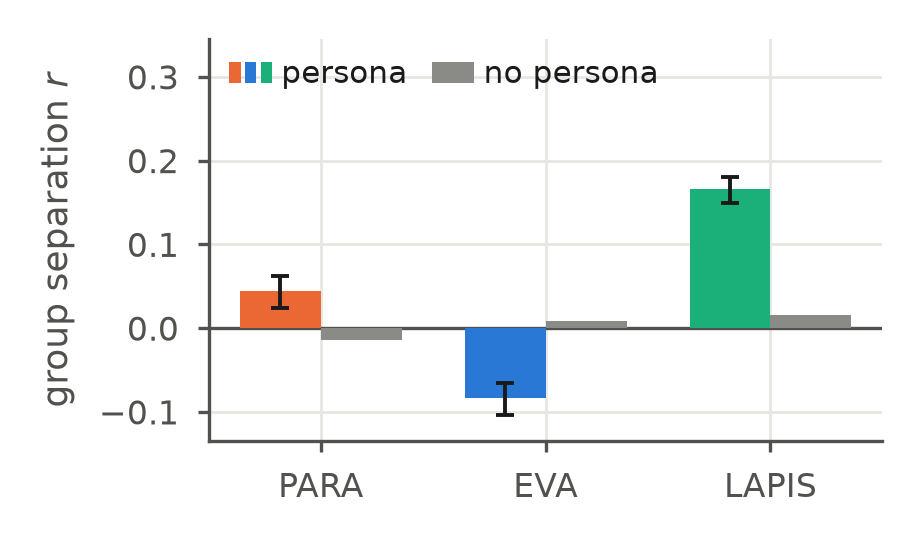
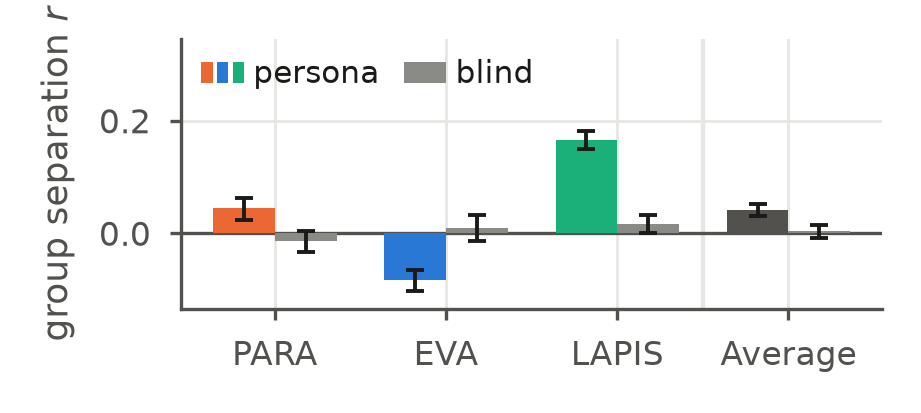
Section 5.3 done
- Old 5.3 (group splits) and 5.4 (generated images) merged into one section,
  "The synthetic audience simulates population reactions": a setup paragraph,
  then distribution-level results (Figure 4, Table 2) and task-level results
  (Figure 5). Fixed two overstatements: EVA age survives correction with a
  negative sign, and a single vote scores 58.8% against the crowd majority.
- Figure 4: Average group with a pooled bootstrap CI (c1_separation.py
  _average), CIs on the blind bars, 27% shorter; Table 2 tightened.
- Figure 5: calibration-transfer panel moved to Appendix A3 (new
  pf_calib_transfer.png); now two panels, ~10% shorter, with a legend and the
  correlation's 95% CI.
- Captions for Table 2, Figures 4 and 5 rewritten in the shared plain style.
- VLM added to keywords.

Changed region(s): [[0.0304, 0.0581, 0.9729, 0.9298], [0.0304, 0.0291, 0.0912, 0.0581]]

diff --git a/docs/paper/accv-wrkshop/autopolish.tex b/docs/paper/accv-wrkshop/autopolish.tex
@@ -122,7 +122,7 @@ Sajjad Pakdamansavoji\inst{1}$^{\star}$\thanks{Corresponding author.}}
 \begin{abstract}
 Editing an image with today's text-guided tools is a back-and-forth in which a person decides what should change and an AI system makes the change. Because a person must take part in every round, the process does not scale, and the result follows that one person's taste, which may not suit the people the image is meant for. We propose \textbf{AutoPolish}, which replaces that single opinion with a synthetic audience, many copies of a vision-language model that each react as a different viewer described by a short profile. Their combined feedback stands in for how the intended audience would respond, and an auto-research style loop turns it into edits over a fixed number of rounds, keeping each edit only when an independent scorer rates it higher. Across three datasets of photographs and paintings, we show that only 19 to 47\% of one person's rating is shared with other viewers, while the averages of two separate groups agree at a correlation of up to $0.96$, so one viewer is a poor guide to a crowd. We also show that our audience captures how viewer groups differ $10\times$ better than the same model without profiles, and picks the crowd's favorite of two AI-generated images 6 percentage points more often than a simple baseline. In editing, AutoPolish improves images as much as a single generic critic while keeping them recognizable, and proposes $3\times$ as many distinct changes.
 
-\keywords{Image editing \and Auto-Research \and Persona Simulation}
+\keywords{Image editing \and Auto-Research \and Persona Simulation \and VLM}
 \end{abstract}
 
 
@@ -248,7 +248,7 @@ Our contributions are as follows.
 \subsubsection{The frozen LLM judge.} The judge is a pretrained vision-language model that we query but never fine-tune. Each query supplies an image, a persona card, and an instruction to answer in a fixed JSON format; the model returns a score, a short rationale, and a few auxiliary fields. We parse it as strict JSON. If parsing fails, a per-field regular expression recovers the values, so we keep the sample instead of dropping it.  The backbone is \texttt{Qwen2-VL-7B-Instruct} \cite{wang2024qwen2vl}, in bf16. The “persona-blind” control format behaves as if no prompt conditioning were involved for the VLM judgment.
 \subsubsection{From a panel to a group prediction.} To predict how a viewer group responds to an image, we sample $N$ persona cards from the dataset and use them to judge the image, and summarize the reactions: the mean and spread of the scores, the most frequent complaints extracted from the rationales, and compare them with the ground truth scoring.
 
-Averaging over the panel is not enough on its own, because the judge's error is systematic and not random. Its ratings are pulled toward the middle of the scale: their standard deviation is only 51-58\% of the human standard deviation, 34-56\% of them land on a single value, and the endpoints are almost never used. Averaging cancels the random part of the error, but the compression is shared across the group population, so it survives. This is why raw population averages are less accurate than simply predicting the population mean. We therefore correct the scores after inference, using isotonic regression \cite{niculescu2005}. This fits a monotone mapping from the judge's raw score to a calibrated one. We fit the mapping with two-fold cross-fitting over images, so every rating is calibrated by a mapping that was estimated without it. Because the mapping is monotone, it changes the absolute error but leaves every ranking as it was, and because it acts only on the output, the model weights stay frozen. The mapping also transfers across datasets. We can therefore fit it once on real images, where human ratings are available, and apply it unchanged to generated images, for which no per-image ratings exist.
+Averaging over the panel is not enough on its own, because the judge's error is systematic and not random. Its ratings are pulled toward the middle of the scale: their standard deviation is only 51-58\% of the human standard deviation, 34-56\% of them land on a single value, and the endpoints are almost never used. Averaging cancels the random part of the error, but the compression is shared across the group population, so it survives. This is why raw population averages are less accurate than simply predicting the population mean. We therefore correct the scores after inference, using isotonic regression \cite{niculescu2005}. This fits a monotone mapping from the judge's raw score to a calibrated one. We fit the mapping with two-fold cross-fitting over images, so every rating is calibrated by a mapping that was estimated without it. Because the mapping is monotone, it changes the absolute error but leaves every ranking as it was, and because it acts only on the output, the model weights stay frozen. The mapping also transfers across datasets (Appendix~\appref{sup:calib}{A3}). We can therefore fit it once on real images, where human ratings are available, and apply it unchanged to generated images, for which no per-image ratings exist.
 
 \subsubsection{AutoPolish.} AutoPolish uses the group as the critic in an iterative editing loop, under the constraint that the model proposing edits and the model judging them are different, since a loop that scores its own edits can improve its objective without improving the image. Each image is refined for $R=10$ steps of (i) \textbf{critique}: the group views the current image, and its complaints are aggregated across personas and accumulated across steps into a single instruction of at most fifteen words; (ii) \textbf{anchored re-edit}: FLUX.1-Kontext-dev \cite{flux2024} applies that instruction to the \emph{original} image rather than the previous edit, so editing artifacts do not compound, producing $K=3$ candidates; (iii) \textbf{held-out scoring}: each candidate is scored by a LAION aesthetic predictor \cite{schuhmann2022}, a CLIP \cite{radford2021} backbone with an MLP head and thus a different model family from the critic, and checked for identity drift with DINOv2 \cite{oquab2023}; (iv) \textbf{accept-if-better}: the new image replaces the previous best image if the aesthetic score improves and DINOv2 similarity to the original stays above $0.78$, so the best-so-far score increases monotonically. We compare four critics: \textsc{static}, a fixed ``improve this image'' instruction; \textsc{blind}, a single persona-free critique; \textsc{society}, ten aggregated personas, which is our method; and \textsc{reward-only}, which optimizes the aesthetic predictor directly and is an upper reference rather than a comparable baseline. Every condition appends the same suffix asking for a visible edit, so prompt wording cannot explain a difference between \textsc{society} and \textsc{blind}, and we deliberately do not score instruction adherence, which would favour whichever condition writes the instruction that is easiest to follow.
 
@@ -272,13 +272,13 @@ We measure how reliable a single rating is compared with the average rating of a
   \caption{Reliability of a single rating and of a group average, the share of each rater's personal taste that their profile explains, and the average number of raters per image across three datasets. A group average is far more reliable than one rating, and the profile explains little of personal taste.}
   \label{tab:ceiling}
   \centering
-  \small
+  \fontsize{7.5}{9}\selectfont  % llncs aliases \footnotesize to \small
   \setlength{\aboverulesep}{0pt}\setlength{\belowrulesep}{0pt}
-  \renewcommand{\arraystretch}{1.05}
+  \renewcommand{\arraystretch}{1.0}
   \newcolumntype{C}[1]{>{\hsize=#1\hsize\centering\arraybackslash}X}
   \begin{tabularx}{\linewidth}{l|C{0.92}C{0.92}|C{0.96}|C{1.2}}
     \toprule
-    \multirow{2}{*}{Dataset} & \multicolumn{2}{c|}{Reliability\rule{0pt}{2.4ex}\rule[-0.7ex]{0pt}{0pt}} & \multirow{2}{=}[-0.5ex]{\centering Taste explained\newline by profile} & \multirow{2}{=}{\centering \# Raters/image} \\
+    \multirow{2}{*}{Dataset} & \multicolumn{2}{c|}{Reliability $\uparrow$\rule{0pt}{2.4ex}\rule[-0.7ex]{0pt}{0pt}} & \multirow{2}{=}[-0.5ex]{\centering Taste explained\newline by profile} & \multirow{2}{=}{\centering \# Raters/image} \\
     \cline{2-3}
     \rule[-0.8ex]{0pt}{0pt} & single rating\rule{0pt}{2.3ex} & group average & & \\
     \midrule
@@ -293,11 +293,6 @@ We measure how reliable a single rating is compared with the average rating of a
 
 Table~\ref{tab:ceiling} shows a large gap between the two reliabilities. Averaged over the three datasets, a single rating reaches a reliability of only 0.29, so most of what one person says about an image is their own, while the average of a group reaches 0.90, which means a second group of viewers would give nearly the same average. The gap also varies with the kind of image, since a single rating is most reliable on the PARA photographs at 0.47, drops to 0.22 on the EVA photographs, and is lowest on the LAPIS paintings at 0.19, where a group average still holds at 0.84. Paintings therefore draw the most personal reactions, although the difference between the two photograph datasets suggests that the type of image is not the only factor. The profile attributes explain only 2.3\% of personal taste on average and at most 4\%, and learning each rater's taste from their own past ratings lowers prediction error only modestly. Together, these results suggest that the group is a more realistic target than the individual, so we evaluate the synthetic audience on groups in the rest of the paper.
 
-\subsection{Personas change how the VLM reacts to an image}
-\label{sec:persona}
-
-We compare the reactions of a persona-conditioned VLM with those of the blind variant, asking how the two differ and which is closer to how real viewers react. First, we compare the audience's calibrated average for each image with the real average and with a prior that always predicts the overall average rating. Second, to check whether the persona moves the scores in the right direction, we subtract each image's average from every rating, which leaves only how each rater departs from the crowd, then average these departures over each group of viewers, such as people with more or less art experience, and correlate the VLM's group departures with the real ones. Third, we train a logistic regression on TF-IDF features to guess a rater's attribute from their comment alone, using art experience on PARA, photographic skill on EVA and interest in art on LAPIS, and we count how many distinct comments the VLM writes for the same image. Training details and detailed results are provided in Appendix~\appref{sup:probe}{A5}.
-
 \begin{figure}[t]
   \centering
   \includegraphics[width=\linewidth]{figs/pf_persona.png}
@@ -310,39 +305,46 @@ We compare the reactions of a persona-conditioned VLM with those of the blind va
   \label{fig:steer}
 \end{figure}
 
+\subsection{Personas change how the VLM reacts to an image}
+\label{sec:persona}
+
+We compare the reactions of a persona-conditioned VLM with those of the blind variant, asking how the two differ and which is closer to how real viewers react. First, we compare the audience's calibrated average for each image with the real average and with a prior that always predicts the overall average rating. Second, to check whether the persona moves the scores in the right direction, we subtract each image's average from every rating, which leaves only how each rater departs from the crowd, then average these departures over each group of viewers, such as people with more or less art experience, and correlate the VLM's group departures with the real ones. Third, we train a logistic regression on TF-IDF features to guess a rater's attribute from their comment alone, using art experience on PARA, photographic skill on EVA and interest in art on LAPIS, and we count how many distinct comments the VLM writes for the same image. Training details and detailed results are provided in Appendix~\appref{sup:probe}{A5}.
+
 Figure~\ref{fig:persona} (left) shows that the raw scores of the synthetic audience are not directly usable. The VLM rates almost every image near the middle of the scale, so on every dataset the audience's average lands further from the real average than the prior does. A single calibration fixes this, cutting the audience's error roughly in half, from 0.14 to 0.07 on average against 0.10 for the prior, and it beats the prior on each dataset separately.
 
 Figure~\ref{fig:steer} shows that the persona moves the VLM's scores in the same direction that real viewers differ. On PARA and LAPIS, which describe their raters in detail, the VLM's group departures follow the real ones with a correlation of 0.37 and 0.39. On EVA they do not, with a negative correlation of $-0.24$, which we attribute to EVA recording little about its raters and using a coarse whole-number scale that leaves little room for small shifts in taste.
 
 The impact of the persona is clearer in the written comments than in the scores. A classifier trained on the comments alone tells viewer groups apart well above chance on all three datasets, scoring 0.58 to 0.70, while on the blind variant it stays at chance (Figure~\ref{fig:persona}, middle). The persona also makes the comments far more varied. On average, the VLM writes about 37 different comments for every 100 raters of an image, against 10 for the blind variant, which is nearly four times as many (Figure~\ref{fig:persona}, right). Together, these results suggest that the persona does change how the VLM reacts to an image, a little in the scores it gives and much more in what it writes.
 
-\subsection{The synthetic audience reproduces inter-group opinion splits}
+\subsection{The synthetic audience simulates population reactions}
 \label{sec:audience}
+\label{sec:generated}
 
-Our main result is that the audience recovers not just the average opinion but the way opinion splits. On paintings, the gaps we predict between two groups of viewers looking at the same image line up with the gaps in the real ratings ($+0.166$, 95\% CI $[0.150, 0.181]$), while the same judge without personas sits at essentially zero ($+0.016$; Figure~\ref{fig:audience}). It holds for each way of dividing the viewers on its own: by nationality ($+0.068$), by interest in art ($+0.088$), and by age ($+0.102$). On the photograph datasets the effect is weak but real on PARA ($+0.044$) and absent on EVA ($-0.084$). That ordering, LAPIS $>$ PARA $>$ EVA, is exactly the order of how much each dataset tells us about its raters. Because that is eight slice tests over three datasets, we correct for multiple comparisons rather than reporting the best of them: six of the eight survive Holm correction at $\alpha=0.05$, including every LAPIS slice and both PARA experience slices (Table~\ref{tab:holm}). The two that fail --- PARA age and EVA photo.\ level --- are reported as null, not dropped.
+We test whether a panel of persona-conditioned VLMs, the synthetic audience, can stand in for the reaction of a target population, at two levels. At the level of distributions, we ask whether panels built for different groups of viewers reproduce the real differences between those groups. Using the between-group separation of the evaluation protocol, we split the raters of each image by one attribute, namely art experience, photography experience and age on PARA, photographic skill and age on EVA, and nationality, interest in art and age on LAPIS, keep groups with at least four raters, and compare the predicted gaps between groups with the real ones, which gives eight tests across the three datasets. At the level of a task, we ask whether the panel picks the same image as the crowd. On the AI-generated pairs of Rapidata, the VLM casts one vote for every human vote, conditioned on that voter's country and language. For each pair we draw a panel of one to twenty of these votes, take its majority choice and compare it with the crowd's majority, averaging over 200 random draws, against a baseline that always picks the image from the model the crowd prefers overall.
 
 \begin{figure}[t]
   \centering
   \begin{minipage}[t]{0.52\linewidth}
     \vspace{0pt}
     \centering
-    \captionof{table}{Holm-corrected slice tests ($n=8$, $\alpha=0.05$). Six of eight between-group separations survive correction, including the nationality slice that the cross-cultural analysis builds on.}
+    \captionof{table}{Separation between viewer groups for each attribute, with $p$-values corrected for running eight tests (Holm, $\alpha=0.05$). The audience gets the direction right in five of the eight cases and backwards for age on EVA.}
     \label{tab:holm}
-    \vspace{2pt}
+    \vspace{0pt}
     \scriptsize
     \setlength{\tabcolsep}{2.2pt}
+    \renewcommand{\arraystretch}{0.82}
     \begin{tabular}{llccc}
       \toprule
-      Dataset & slice & sep.\ $r$ & Holm $p$ & surv. \\
+      Dataset & slice & sep.\ $r\,\uparrow$ & Holm $p\,\downarrow$ & surv. \\
       \midrule
       LAPIS & age                   & $+0.102$ & $<10^{-3}$ & \checkmark \\
       LAPIS & art interest          & $+0.088$ & $<10^{-3}$ & \checkmark \\
-      EVA   & age                   & $-0.079$ & $<10^{-3}$ & \checkmark \\
       LAPIS & nationality           & $+0.068$ & $8\times10^{-5}$ & \checkmark \\
       PARA  & photo.\ exp.\     & $+0.055$ & $1.1\times10^{-4}$ & \checkmark \\
       PARA  & art exp.\             & $+0.040$ & $4.2\times10^{-3}$ & \checkmark \\
-      EVA   & photo.\ level    & $-0.018$ & $0.50$ & $\times$ \\
       PARA  & age                   & $+0.008$ & $0.50$ & $\times$ \\
+      EVA   & photo.\ level    & $-0.018$ & $0.50$ & $\times$ \\
+      EVA   & age                   & $-0.079$ & $<10^{-3}$ & \checkmark \\
       \bottomrule
     \end{tabular}
   \end{minipage}\hfill
@@ -350,22 +352,21 @@ Our main result is that the audience recovers not just the average opinion but t
     \vspace{0pt}
     \centering
     \includegraphics[width=\linewidth]{figs/pf_separation.png}
-    \caption{\textbf{The audience recovers real differences between viewer groups.} Predicted between-group gaps track the real ones (bootstrap 95\% CIs); without personas the same judge sits at zero.}
+    \caption{Separation between viewer groups on each dataset and on average, with 95\% bootstrap intervals. The persona gets the direction right on LAPIS and PARA but not on EVA, while the blind variant stays near zero.}
     \label{fig:audience}
   \end{minipage}
 \end{figure}
 
-\subsection{Aggregating weak persona votes recovers crowd preference on generated images}
-\label{sec:generated}
-
-We repeat the test on 23{,}445 crowd votes over 898 pairs of generated images, asking the judge to answer as a voter from a given country and pick the better image of the two. A single simulated voter is close to a coin flip (0.532 correct). An audience of twenty agrees with the crowd 65.7\% of the time, above the 60.0\% reached by always choosing the more popular image, and agreement climbs steadily as the audience grows (Figure~\ref{fig:generated}, left). This is the clearest view of why collective reaction works: each vote leans the right way only slightly, and averaging enough of them turns a slight lean into a reliable answer. Per pair, the aggregated audience's predicted preference correlates with the human crowd's observed win-rate at $r{=}+0.466$ (95\% CI $[0.415, 0.515]$; Figure~\ref{fig:generated}, middle), so this is a graded preference signal rather than a coin-flip that happens to land right. The step that licenses running a calibrator fit on real photographs over generated images is verified separately: every off-diagonal transfer of the isotonic map sits far below the raw error (Figure~\ref{fig:generated}, right), so the correction is a general scale fix and not a dataset-specific one.
+Figure~\ref{fig:audience} shows how well the predicted differences between groups follow the real ones, where a positive value means the audience gets the direction of the differences right. On LAPIS it does so clearly, with a correlation of 0.166 against 0.016 for the blind variant. On PARA the effect is weaker but still present (0.044), while on EVA the predictions point the opposite way ($-0.084$). Averaged over the three datasets, the audience reaches 0.042 against 0.003 for the blind variant. Table~\ref{tab:holm} breaks these results down by the attribute used to form the groups. In five of the eight cases the audience gets the direction right. On EVA, grouping viewers by age gives the opposite direction, which explains the negative result for EVA in Figure~\ref{fig:audience}, and the remaining two cases show no clear effect either way. The order LAPIS, PARA, EVA follows how much each dataset records about its raters, which suggests that the audience reproduces the differences within a population as far as its profiles describe them.
 
 \begin{figure}[t]
   \centering
   \includegraphics[width=\linewidth]{figs/pf_generated.png}
-  \caption{\textbf{The audience transfers to AI-generated images.} \textbf{(left)} Agreement with the human crowd rises monotonically with the number of simulated voters and overtakes the majority prior; a single voter is close to a coin flip. \textbf{(middle)} Per pair, the aggregated panel's predicted preference tracks the crowd's observed win-rate over 898 pairs ($r{=}{+}0.466$, 95\% CI $[0.415, 0.515]$), so this is a graded signal rather than a coin flip that lands right; points are colored by how many humans voted on the pair. \textbf{(right)} The isotonic calibrator transfers across datasets: every off-diagonal cell (fit on one dataset, evaluated on another) sits far below the raw uncalibrated error at the right, so the correction is a general scale fix and not a dataset-specific one.}
+  \caption{The synthetic audience on AI-generated image pairs. \textbf{(left)} Agreement with the crowd's majority as the panel grows, against the prior of always picking the more popular model. \textbf{(right)} Panel against crowd preference per pair, colored by number of voters. Agreement passes the prior with more personas, and the panel tracks the crowd.}
   \label{fig:generated}
 \end{figure}
+
+Figure~\ref{fig:generated} (left) shows that the vote of a single persona-conditioned VLM agrees with the crowd's majority on 58.8\% of pairs, just below the 60.0\% of always picking the more popular model, but agreement rises as more personas are added to the panel and reaches 65.7\% with twenty. Figure~\ref{fig:generated} (right) shows that, per pair, the share of the panel that prefers an image tracks the share of the crowd that does, with a correlation of 0.47, so the panel gives a graded preference rather than a lucky guess. Together, these results suggest that the votes of many persona-conditioned VLMs add up to a usable estimate of a population's preferences.
 
 \subsection{Who the audience speaks for: calibration is not equal across viewers}
 \label{sec:fairness}
@@ -851,6 +852,7 @@ Table~\ref{tab:data} gives the four corpora in full. The ordering that matters i
 \end{table}
 
 \section{Calibration in full: individual, group, and prior}
+\label{sup:calib}
 Figure~\ref{fig:cal} expands the calibration panel of Figure~\ref{fig:persona} to show the individual as well as the group. Out-of-fold isotonic calibration roughly halves group error and pushes the calibrated group (blue, fourth bar) below the population-mean prior (orange) on all three datasets, while the individual prediction, even after calibration, stays near-noise exactly as the ceiling analysis predicts.
 
 \begin{figure}[tbp]
@@ -858,6 +860,15 @@ Figure~\ref{fig:cal} expands the calibration panel of Figure~\ref{fig:persona} t
   \includegraphics[width=0.98\linewidth]{figs/b4_calibration.png}
   \caption{\textbf{Calibration is what makes the aggregate beat the prior.} Normalized MAE for individual (hatched) and group (solid) predictions, raw versus calibrated, with the population-mean prior for reference. The calibrated group beats the prior on all three datasets; the individual does not, and cannot.}
   \label{fig:cal}
+\end{figure}
+
+The correction also carries over between datasets (Figure~\ref{fig:caltransfer}). Fitting it on one dataset and applying it to another lowers the error below the raw error in every case, though not as far as a fit on the dataset itself, so a mapping fit on rated images can be reused where no per-image ratings exist, such as on generated images.
+
+\begin{figure}[tbp]
+  \centering
+  \includegraphics[width=0.62\linewidth]{figs/pf_calib_transfer.png}
+  \caption{Error of the audience's average rating when the calibration is fit on one dataset (columns) and applied to another (rows), next to the raw error. A fit from another dataset always beats the raw scores but does less well than a fit on the dataset itself, shown in bold.}
+  \label{fig:caltransfer}
 \end{figure}
 
 \section{Why calibration is needed: the judge's central-tendency bias}

diff --git a/scripts/analysis/paper_figs.py b/scripts/analysis/paper_figs.py
@@ -363,37 +363,47 @@ def fig_steer(width: float = 5.5, height: float = 1.5) -> str:
     return p
 
 
-def fig_separation(width: float = 2.15, height: float = 1.21) -> str:
-    """The between-group separation panel on its own.
+def fig_separation(width: float = 2.15, height: float = 0.88) -> str:
+    """The between-group separation panel on its own, plus the cross-dataset average.
 
     Drawn narrow because the ACCV draft sets it beside the Holm table rather
     than beside another panel; ``width`` is the physical inches it occupies on
-    the page, so the type size here is the type size in print.
+    the page, so the type size here is the type size in print. The last group is
+    the mean of the three datasets (``_average`` in c1_separation.json, with a
+    bootstrap CI over all three), drawn in dark gray and set off by a faint rule.
     """
     c1 = load("c1_separation")
+    avg = c1["_average"]
 
     print_size()
     fig, ax = plt.subplots(figsize=(width, height))
-    x = np.arange(3)
+    labels = DSS + ["Average"]
+    x = np.arange(len(labels))
     w = 0.36
-    full = [c1[d]["overall"]["full_separation"]["corr"] for d in DSS]
-    blind = [c1[d]["overall"]["blind_separation"]["corr"] for d in DSS]
-    err = np.array([[f - c1[d]["overall"]["full_separation"]["ci95"][0],
-                     c1[d]["overall"]["full_separation"]["ci95"][1] - f]
-                    for f, d in zip(full, DSS)]).T
-    ax.bar(x - w / 2, full, w, yerr=err, capsize=1.6,
-           error_kw=dict(ecolor=theme.INK, lw=0.7, capthick=0.7),
-           color=[theme.DATASET[d] for d in DSS], zorder=3)
-    ax.bar(x + w / 2, blind, w, color=theme.NEUTRAL, zorder=3)
+
+    def series(kind):
+        vals = [c1[d]["overall"][kind]["corr"] for d in DSS] + [avg[kind]["corr"]]
+        cis = [c1[d]["overall"][kind]["ci95"] for d in DSS] + [avg[kind]["ci95"]]
+        err = np.array([[v - c[0], c[1] - v] for v, c in zip(vals, cis)]).T
+        return vals, err
+
+    full, ferr = series("full_separation")
+    blind, berr = series("blind_separation")
+    ekw = dict(ecolor=theme.INK, lw=0.7, capthick=0.7)
+    ax.bar(x - w / 2, full, w, yerr=ferr, capsize=1.6, error_kw=ekw,
+           color=[theme.DATASET[d] for d in DSS] + [theme.MUTED], zorder=3)
+    ax.bar(x + w / 2, blind, w, yerr=berr, capsize=1.6, error_kw=ekw,
+           color=theme.NEUTRAL, zorder=3)
     ax.axhline(0, color=theme.MUTED, lw=0.6)
+    ax.axvline(2.5, color=theme.GRID, lw=0.8, zorder=1)
     ax.set_xticks(x)
-    ax.set_xticklabels(DSS)
+    ax.set_xticklabels(labels)
     ax.set_ylabel("group separation $r$")
     ax.set_ylim(-0.135, 0.345)
     ax.grid(True, axis="y")
     ax.set_axisbelow(True)
     key = tuple(Patch(facecolor=theme.DATASET[d]) for d in DSS)
-    ax.legend([key, Patch(facecolor=theme.NEUTRAL)], ["persona", "no persona"],
+    ax.legend([key, Patch(facecolor=theme.NEUTRAL)], ["persona", "blind"],
               handler_map={tuple: HandlerTuple(ndivide=None)}, handlelength=1.4,
               loc="upper left", ncol=2, columnspacing=0.8,
               labelspacing=0.2, handletextpad=0.3, borderpad=0.15, fontsize=5.5)
@@ -408,18 +418,17 @@ def fig_separation(width: float = 2.15, height: float = 1.21) -> str:
 
 
 def fig_generated() -> str:
-    """Everything the generated-images section shows, in one strip.
+    """The generated-images result, in one strip.
 
     (left) the panel-size curve, (middle) per-pair panel preference against the
-    human crowd, (right) the cross-dataset calibration transfer that licenses
-    running a calibrator fit on photographs over generated images.
+    human crowd. The cross-dataset calibration transfer that used to be the right
+    panel now has its own appendix figure (``fig_calib_transfer``), since it is a
+    property of the calibration and not of the generated-image task.
     """
     from collections import defaultdict
-    from matplotlib.colors import LinearSegmentedColormap
     from c3_rapidata import load_votes
 
     c3 = load("c3")
-    xfer = load("calib_transfer")
 
     # the per-pair arrays are not in c3.json (only their summaries are), so pool
     # the raw votes again here -- it is a dict walk, not a re-analysis
@@ -433,18 +442,15 @@ def fig_generated() -> str:
     Nn = np.array([len(pool_h[k]) for k in keys])
 
     print_size()
-    fig, (a1, a2, a3) = plt.subplots(
-        1, 3, figsize=(5.5, 1.62), gridspec_kw=dict(width_ratios=[1.0, 1.0, 1.15]))
+    fig, (a1, a2) = plt.subplots(1, 2, figsize=(5.5, 1.17))
 
     # (left) panel-size curve
     nc = c3["aggregation"]["n_curve"]
     ns = sorted(int(k) for k in nc)
     ys = [nc[str(n)] for n in ns]
     maj = c3["aggregation"]["aggregate_acc_majority"]
-    a1.axhline(maj, ls="--", lw=0.9, color=theme.NEUTRAL, zorder=2)
-    a1.text(ns[-1], maj - 0.003, "majority prior", ha="right", va="top",
-            fontsize=5.5, color=theme.MUTED)
-    a1.plot(ns, ys, "-o", ms=3, color=theme.PRIMARY, zorder=3)
+    a1.axhline(maj, ls="--", lw=0.9, color=theme.NEUTRAL, zorder=2, label="majority prior")
+    a1.plot(ns, ys, "-o", ms=3, color=theme.PRIMARY, zorder=3, label="Rapidata")
     a1.annotate(f"{ys[0]:.3f}", (ns[0], ys[0]), textcoords="offset points",
                 xytext=(3, 3), fontsize=5.5, color=theme.INK)
     a1.annotate(f"{ys[-1]:.3f}", (ns[-1], ys[-1]), textcoords="offset points",
@@ -458,6 +464,9 @@ def fig_generated() -> str:
     a1.set_ylim(min(min(ys), maj) - 0.016, max(ys) + 0.020)
     a1.grid(True, axis="y")
     a1.set_axisbelow(True)
+    # the upper left is empty: the curve is still below the prior there
+    a1.legend(loc="upper left", fontsize=5.5, handlelength=1.6, handletextpad=0.35,
+              borderpad=0.2, labelspacing=0.2, framealpha=0.85)
 
     # (middle) per-pair scatter, points colored by how many humans voted on the
     # pair: rank terciles, so the three support groups stay balanced
@@ -476,8 +485,11 @@ def fig_generated() -> str:
     a2.set_ylim(0, 1)
     a2.set_xticks([0, 0.5, 1])
     a2.set_yticks([0, 0.5, 1])
-    a2.text(0.04, 0.93, f"$r={c3['aggregation']['pair_corr']:+.3f}$",
-            transform=a2.transAxes, fontsize=5.5, va="top", color=theme.INK)
+    lo, hi = c3["aggregation"]["pair_corr_ci"]
+    a2.text(0.04, 0.93, f"$r={c3['aggregation']['pair_corr']:+.3f}$\n95% CI [{lo:.3f}, {hi:.3f}]",
+            transform=a2.transAxes, fontsize=5.0, va="top", color=theme.INK, linespacing=1.3,
+            bbox=dict(boxstyle="round,pad=0.25", facecolor="white", edgecolor="none", alpha=0.85),
+            zorder=4)
     # the tercile colors need a key or they are an unexplained encoding; the
     # lower-right of this scatter is empty, so it costs nothing to put it there
     a2.legend(handles=[Line2D([0], [0], marker="o", ls="", ms=2, color=c, label=l)
@@ -488,6 +500,25 @@ def fig_generated() -> str:
     a2.grid(True)
     a2.set_axisbelow(True)
 
+    fig.tight_layout(w_pad=1.0, pad=0.25)
+    p = os.path.join(FIGS, "pf_generated.png")
+    fig.savefig(p, dpi=DPI, bbox_inches="tight")
+    plt.close(fig)
+    return p
+
+
+def fig_calib_transfer(width: float = 3.2, height: float = 1.55) -> str:
+    """Cross-dataset calibration transfer, for the calibration appendix.
+
+    Rows: dataset the calibrator is evaluated on; columns: dataset it was fit on;
+    cells: calibrated group MAE, with the raw (uncalibrated) error printed at the
+    right as the reference every cell has to beat.
+    """
+    from matplotlib.colors import LinearSegmentedColormap
+
+    xfer = load("calib_transfer")
+    print_size()
+    fig, a3 = plt.subplots(figsize=(width, height))
     # (right) calibration transfer. The printed numbers carry the values, so the
     # colorbar is dropped -- at this width it would cost more than it explains.
     cal = xfer["calibrated_group_mae_[eval][fitOn]"]
@@ -513,8 +544,8 @@ def fig_generated() -> str:
     a3.set_xlabel("calibrator fit on")
     a3.set_ylabel("evaluated on")
 
-    fig.tight_layout(w_pad=1.0, pad=0.25)
-    p = os.path.join(FIGS, "pf_generated.png")
+    fig.tight_layout(pad=0.25)
+    p = os.path.join(FIGS, "pf_calib_transfer.png")
     fig.savefig(p, dpi=DPI, bbox_inches="tight")
     plt.close(fig)
     return p
@@ -887,6 +918,7 @@ if __name__ == "__main__":
     print("wrote", fig_steer())
     print("wrote", fig_separation())
     print("wrote", fig_generated())
+    print("wrote", fig_calib_transfer())
     print("wrote", fig_bias_wide())
     print("wrote", fig_breadth_category())
     print("wrote", fig_autopolish(logs))

diff --git a/scripts/analysis/c1_separation.py b/scripts/analysis/c1_separation.py
@@ -41,6 +41,7 @@ SLICES = {
 from attrs import load_attributes
 
 MIN_CELL = 4      # min raters of a level on an image to estimate its mean
+_POOLED: dict = {}   # dataset -> (full cells, blind cells), pooled over slices, for the average
 RNG = np.random.default_rng(0)
 
 
@@ -129,6 +130,7 @@ def analyze(dataset: str) -> dict:
             "distribution_match_full": _dist_match(full, a),
         }
     # pooled over all attributes
+    _POOLED[dataset] = (pd.concat(all_full, ignore_index=True), pd.concat(all_blind, ignore_index=True))
     out["overall"] = {
         "full_separation": _separation(pd.concat(all_full, ignore_index=True)),
         "blind_separation": _separation(pd.concat(all_blind, ignore_index=True)),
@@ -173,10 +175,42 @@ def plot(report: dict) -> str:
     return path
 
 
+def _average(n_boot: int = 1000, seed: int = 0) -> dict:
+    """Mean of the three per-dataset pooled separations, with a 95% bootstrap CI.
+
+    Each bootstrap round resamples images (clustered, as in `_separation`) independently
+    within every dataset, recomputes the three correlations and averages them, so the
+    interval carries the sampling uncertainty of all three datasets. Uses its own
+    generator, so the per-dataset CIs above are unchanged."""
+    rng = np.random.default_rng(seed)
+    out = {}
+    for kind, k in (("full_separation", 0), ("blind_separation", 1)):
+        by_ds = {}
+        for ds, cells in _POOLED.items():
+            c = cells[k]
+            by_ds[ds] = {img: g[["obs_gap", "pred_gap"]].to_numpy() for img, g in c.groupby("imageName")}
+        point = float(np.mean([stats.pearsonr(_POOLED[ds][k]["pred_gap"], _POOLED[ds][k]["obs_gap"]).statistic
+                               for ds in _POOLED]))
+        boot = []
+        for _ in range(n_boot):
+            rs = []
+            for ds, imgs in by_ds.items():
+                keys = np.array(list(imgs), dtype=object)
+                arr = np.concatenate([imgs[i] for i in keys[rng.integers(0, len(keys), len(keys))]])
+                rs.append(np.corrcoef(arr[:, 0], arr[:, 1])[0, 1])
+            boot.append(np.mean(rs))
+        out[kind] = {"corr": round(point, 4),
+                     "ci95": [round(float(np.percentile(boot, 2.5)), 4),
+                              round(float(np.percentile(boot, 97.5)), 4)],
+                     "datasets": sorted(_POOLED)}
+    return out
+
+
 def main() -> None:
     ensure_out()
     report = {ds: analyze(ds) for ds in SLICES}
     report["_figure"] = plot(report)
+    report["_average"] = _average()
     path = write_json(report, "c1_separation.json")
     print(f"\nWrote {path}\nWrote {report['_figure']}\n")
 
